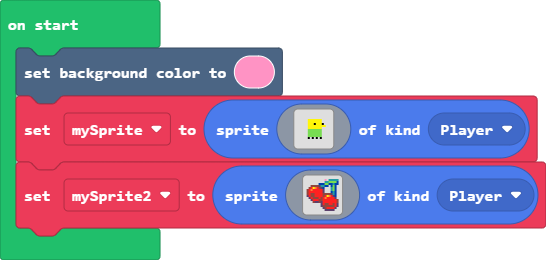
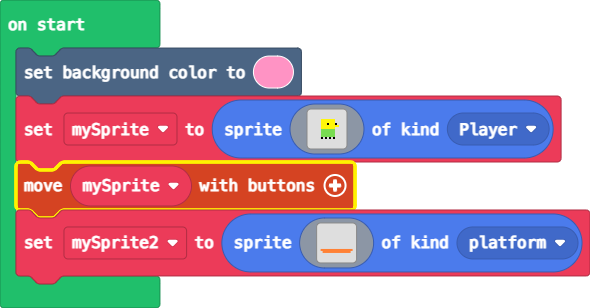
Update main.blocks, main.ts, images.g.jres, images.g.ts

diff --git a/main.ts b/main.ts
@@ -1,20 +1,7 @@
+namespace SpriteKind {
+    export const platform = SpriteKind.create()
+}
 scene.setBackgroundColor(3)
 let mySprite = sprites.create(assets.image`myImage0`, SpriteKind.Player)
-let mySprite2 = sprites.create(img`
-    . . . . . . . . . 3 . 6 6 6 6 6 
-    . . . . . . . . . 6 6 7 7 7 7 8 
-    . . . . . . 8 8 8 7 7 8 8 6 8 8 
-    . . e e e e c 6 6 8 8 . 8 7 8 . 
-    . e 2 5 4 2 e c 8 . . . 6 7 8 . 
-    e 2 4 2 2 2 2 2 c . . . 6 7 8 . 
-    e 2 2 2 2 2 2 2 c . . . 8 6 8 . 
-    e 2 e e 2 2 2 2 e e e e c 6 8 . 
-    c 2 e e 2 2 2 2 e 2 5 4 2 c 8 . 
-    . c 2 e e e 2 e 2 4 2 2 2 2 c . 
-    . . c 2 2 2 e e 2 2 2 2 2 2 2 e 
-    . . . e c c e c 2 2 2 2 2 2 2 e 
-    . . . . . . . c 2 e e 2 2 e 2 c 
-    . . . . . . . c e e e e e e 2 c 
-    . . . . . . . . c e 2 2 2 2 c . 
-    . . . . . . . . . c c c c c . . 
-    `, SpriteKind.Player)
+controller.moveSprite(mySprite)
+let mySprite2 = sprites.create(assets.image`myImage1`, SpriteKind.platform)

diff --git a/images.g.ts b/images.g.ts
@@ -162,6 +162,25 @@ namespace myImages {
 . . . . . . . . . . . . . . . . 
 . . . . . . . . . . . . . . . . 
 `;
+            case "image6":
+            case "myImage1":return img`
+. . . . . . . . . . . . . . . . 
+. . . . . . . . . . . . . . . . 
+. . . . . . . . . . . . . . . . 
+. . . . . . . . . . . . . . . . 
+. . . . . . . . . . . . . . . . 
+. . . . . . . . . . . . . . . . 
+. . . . . . . . . . . . . . . . 
+. . . . . . . . . . . . . . . . 
+. . . . . . . . . . . . . . . . 
+. . . . . . . . . . . . . . . . 
+. . . . . . . . . . . . . . . . 
+4 4 4 4 4 4 4 4 4 4 4 4 4 4 4 4 
+. 4 4 4 4 4 4 4 4 4 4 4 4 4 4 . 
+. . . . . . . . . . . . . . . . 
+. . . . . . . . . . . . . . . . 
+. . . . . . . . . . . . . . . . 
+`;
         }
         return null;
     })
